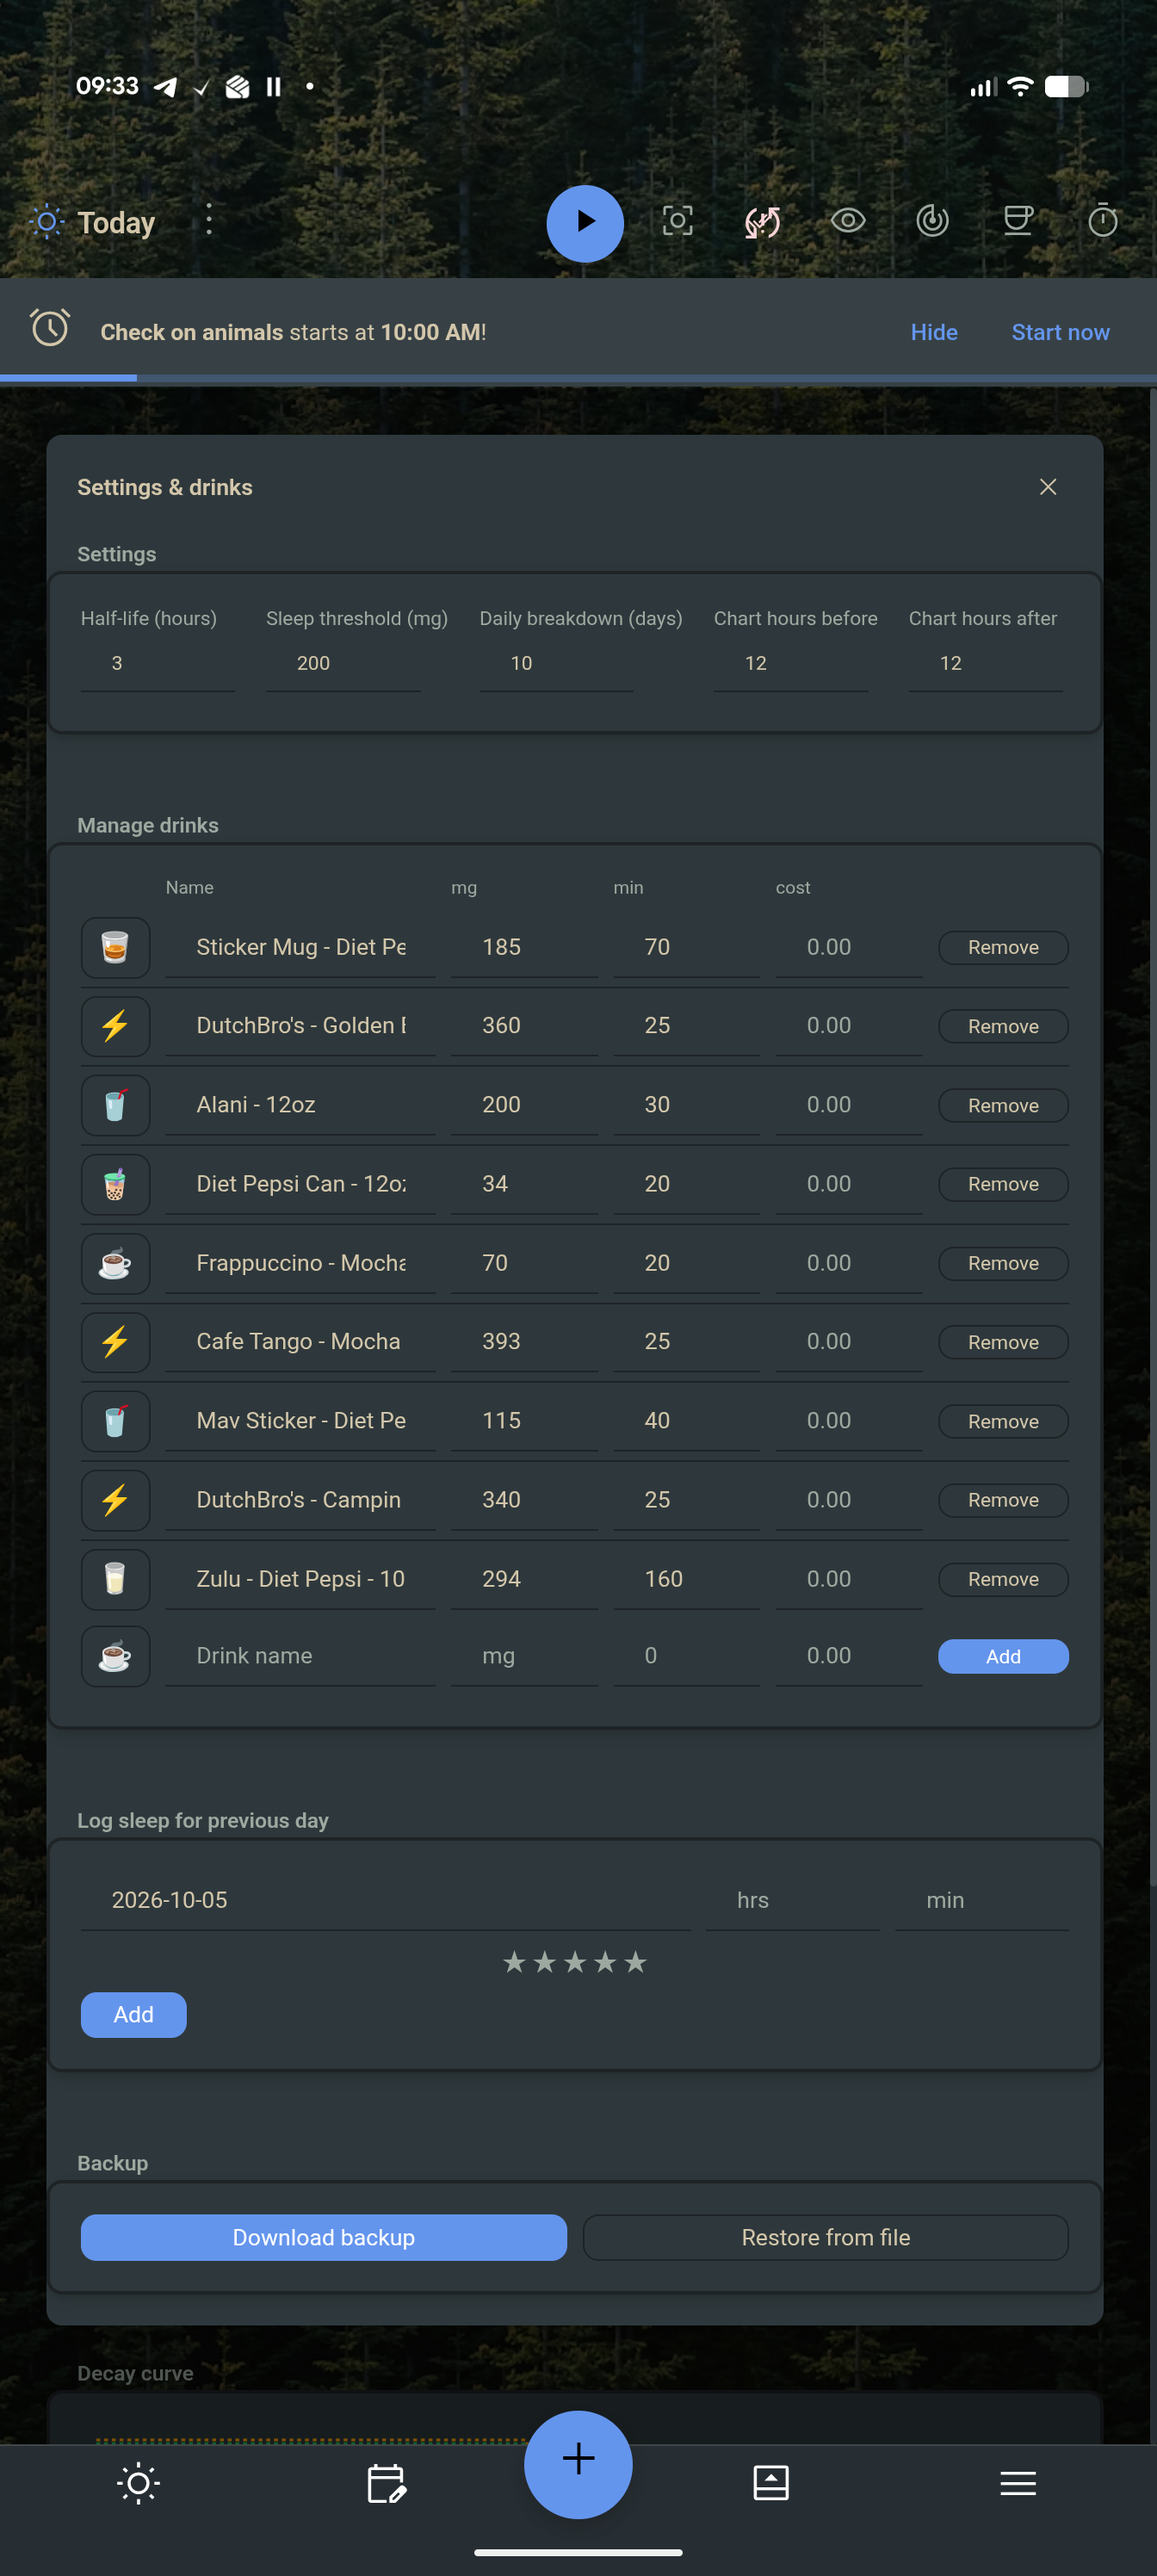
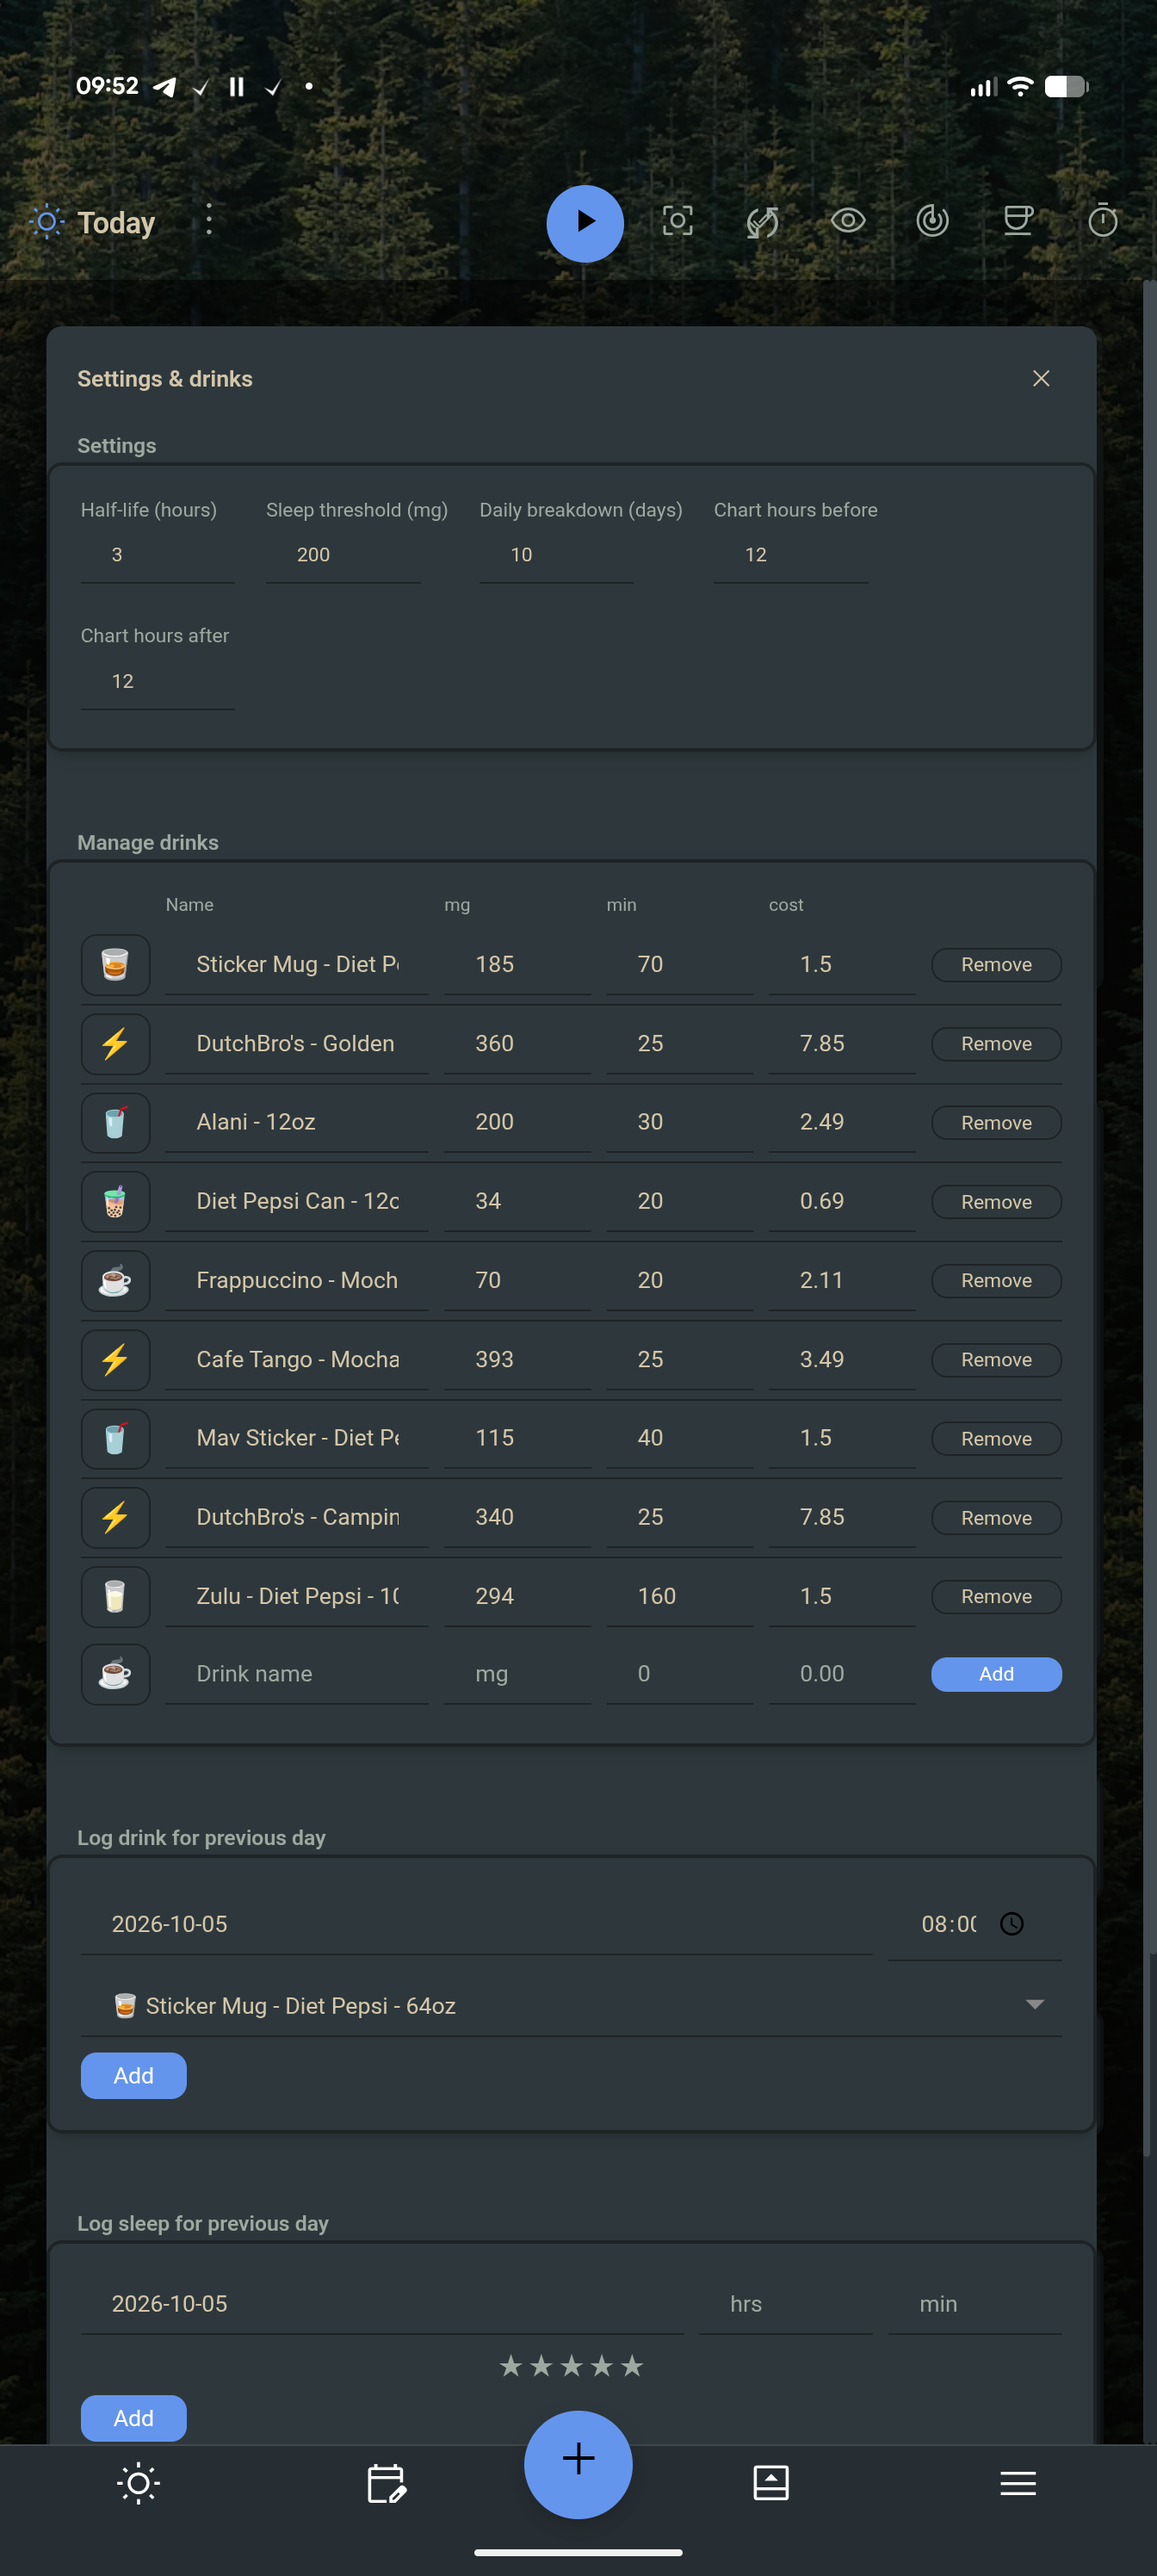
refresh mobile screenshots for 1.54.0 with real drink costs

diff --git a/README.md b/README.md
@@ -11,7 +11,7 @@ caffeine level decay using a half-life model, and its effects on productivity th
 </p>
 <p>
   <img src="Images/mobile.png" alt="Mobile view: gauge with Spent today and Daily avg, quick add, and custom drink entry with cost" width="31%" />
-  <img src="Images/mobile_settings.png" alt="Mobile view: Settings &amp; drinks overlay with drink costs and backup/restore" width="31%" />
+  <img src="Images/mobile_settings.png" alt="Mobile view: Settings &amp; drinks overlay with drink costs and log drink for previous day" width="31%" />
   <img src="Images/mobile_reports.png" alt="Mobile view: Reports summary with sleep, mg, and cost per day" width="31%" />
 </p>
 
